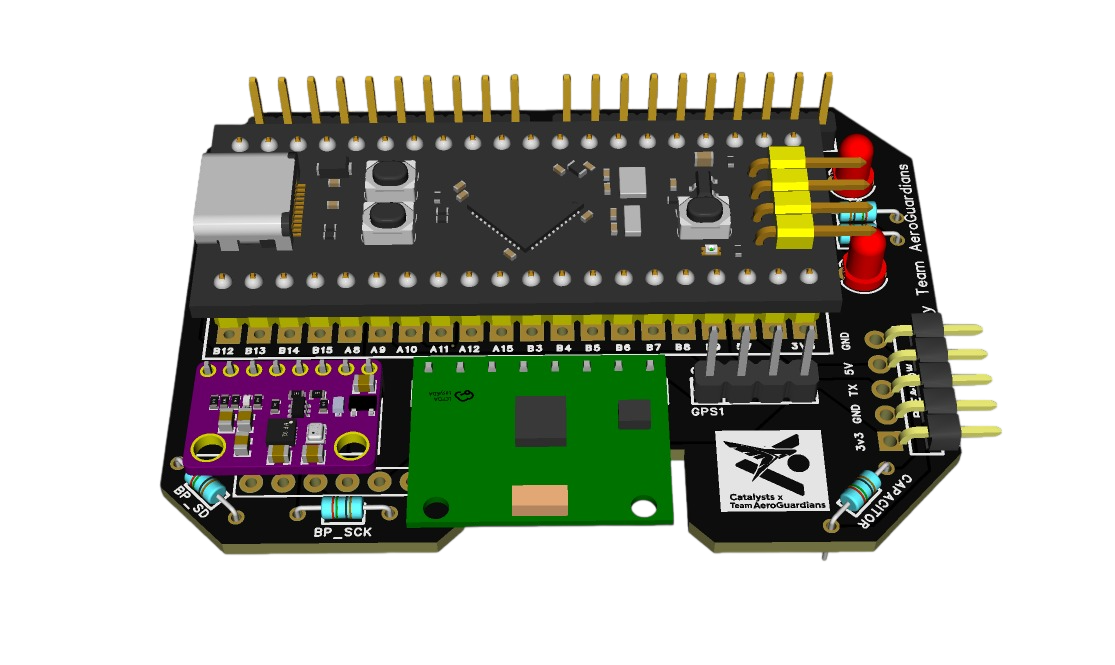
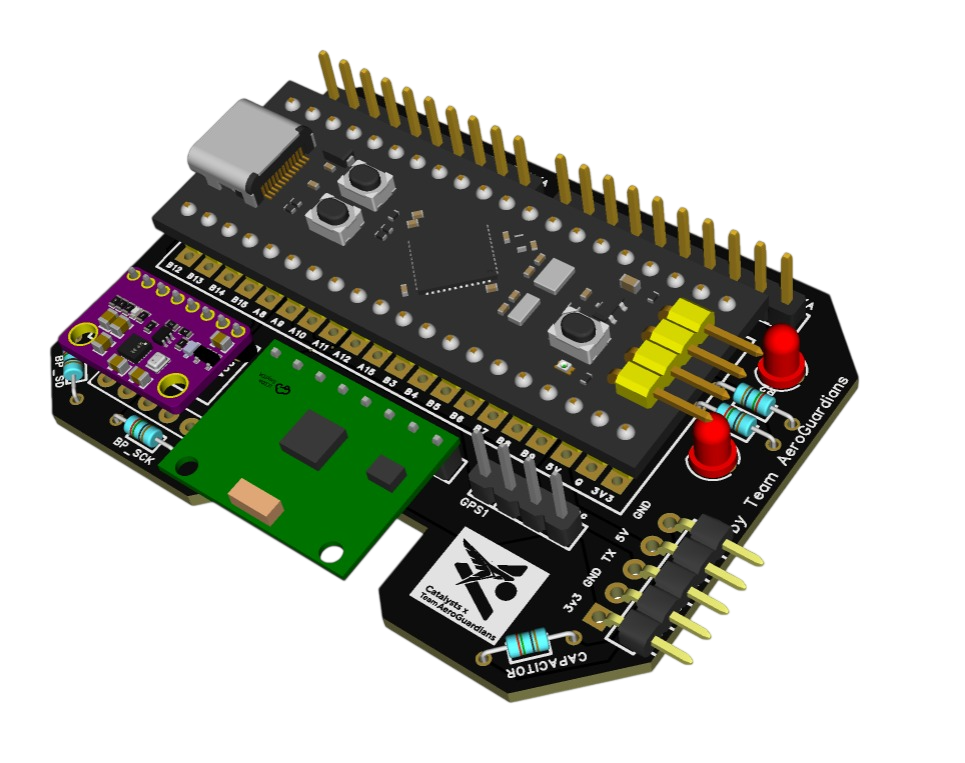
Enlarge hero mockup image constraints to 720px

diff --git a/src/components/sections/Hero.tsx b/src/components/sections/Hero.tsx
@@ -55,10 +55,10 @@ export default function Hero() {
             <Image
               src="/pcb_image_hero.png"
               alt="Marut FCU PCB"
-              width={600}
-              height={600}
+              width={720}
+              height={720}
               priority
-              className="relative z-10 max-w-full max-h-[600px] h-auto object-contain select-none filter drop-shadow-[0_10px_40px_rgba(0,0,0,0.6)] hover:scale-[1.03] transition-transform duration-500"
+              className="relative z-10 max-w-full max-h-[720px] h-auto object-contain select-none filter drop-shadow-[0_10px_40px_rgba(0,0,0,0.6)] hover:scale-[1.03] transition-transform duration-500"
             />
           </div>
         </div>